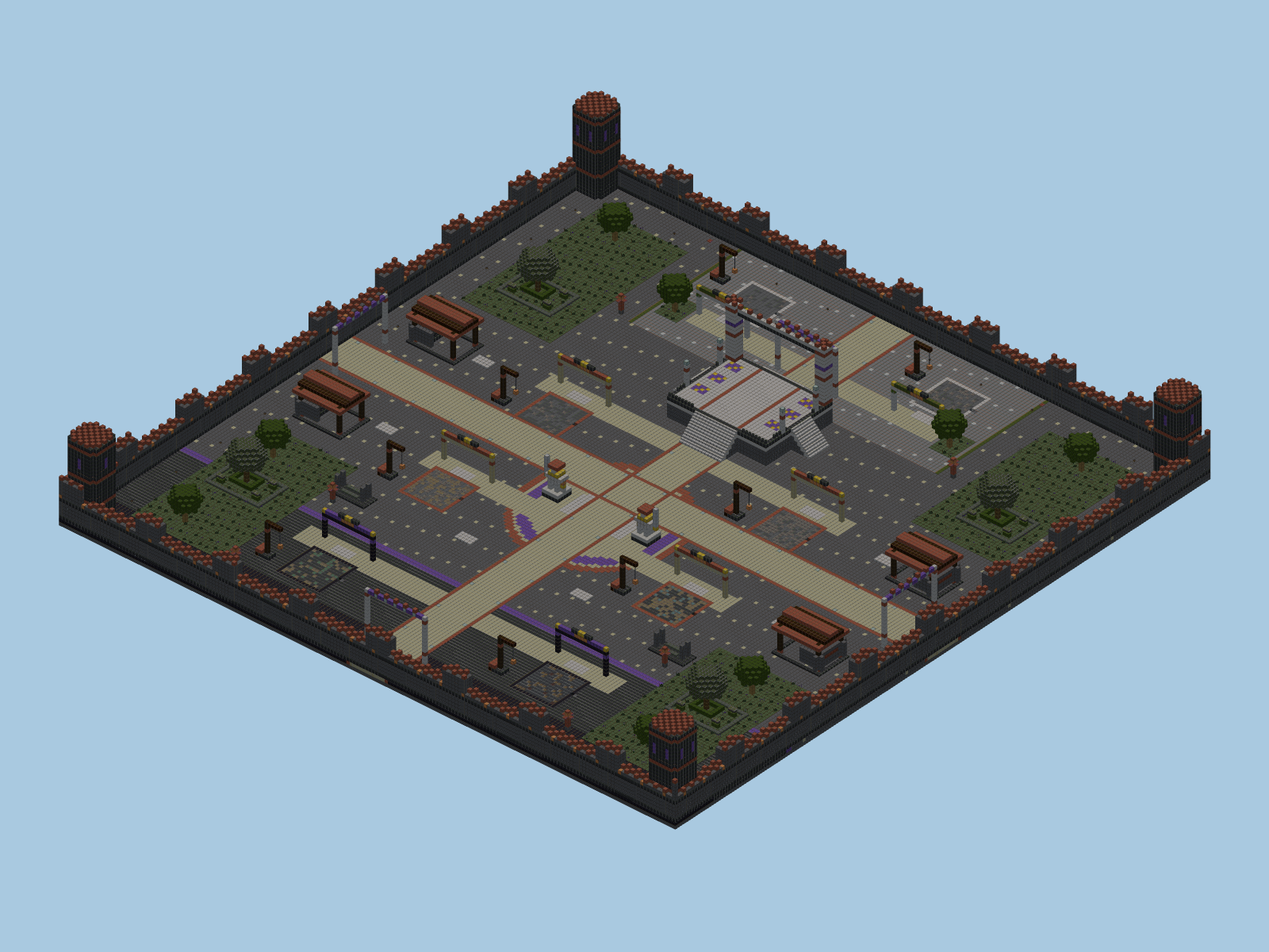
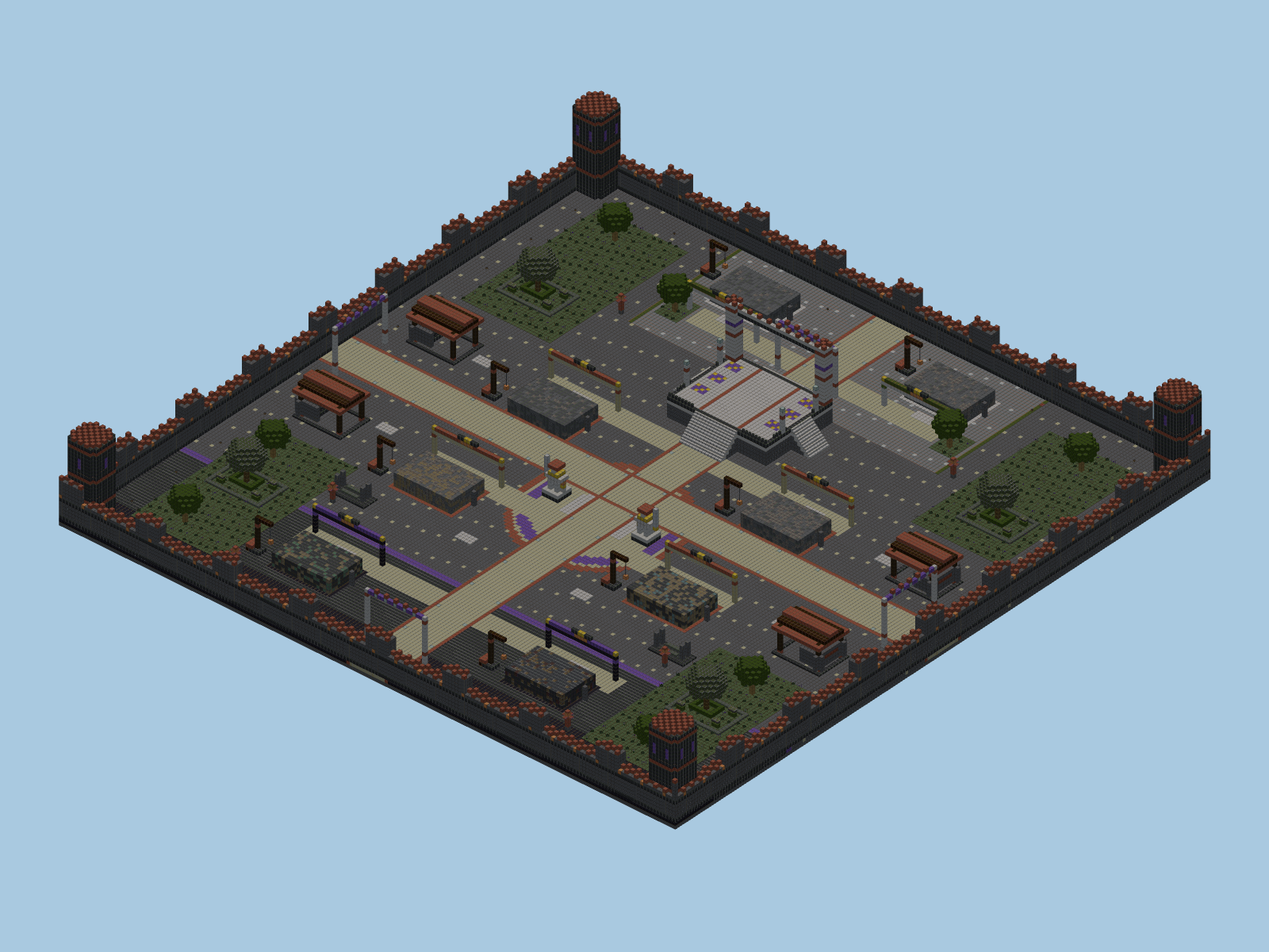
Document surface Box PvP mines and progression guidance

diff --git a/boxpvp-arena.html b/boxpvp-arena.html
@@ -20,7 +20,7 @@
   <main class="page-wrap" id="main-content">
     <nav class="game-guide-toolbar" aria-label="Box PvP rehberi"><a href="boxpvp.html"><i class="fa-solid fa-arrow-left" aria-hidden="true"></i> Box PvP</a><strong>BOX PVP</strong><details><summary><i class="fa-solid fa-table-cells-large" aria-hidden="true"></i> Konular</summary><nav aria-label="Rehber konuları"><a href="boxpvp-start.html"><i class="fa-solid fa-compass" aria-hidden="true"></i> Başlangıç</a><a href="boxpvp-arena.html" aria-current="page"><i class="fa-solid fa-map" aria-hidden="true"></i> Kehribar Kalesi</a><a href="boxpvp-mines.html"><i class="fa-solid fa-hammer" aria-hidden="true"></i> Madenler</a><a href="boxpvp-trade.html"><i class="fa-solid fa-right-left" aria-hidden="true"></i> Cevher takasları</a><a href="boxpvp-services.html"><i class="fa-solid fa-box-open" aria-hidden="true"></i> Kit, onarım ve depo</a><a href="boxpvp-commands.html"><i class="fa-solid fa-terminal" aria-hidden="true"></i> Komutlar</a><a href="boxpvp-rules.html"><i class="fa-solid fa-shield-halved" aria-hidden="true"></i> Savaş kuralları</a></nav></details></nav>
     <header class="game-guide-heading"><h1 id="arena-title">Kehribar Kalesi</h1><p>193 × 193 blokluk yerleşim, korumalı kuzey madenleri ve PvP kanatları.</p></header>
-<div class="game-guide-content"><section id="arena" aria-labelledby="arena-title"><p>Kehribar Kalesi'nin 193 × 193 blokluk yerleşimi ortak kale duvarları, açık ana yollar ve sekiz maden cephesiyle düzenlenmiştir. Kuzeyde korumalı başlangıç bölgesi, ortada savaş meydanı, güneyde zümrüt ve kadim enkaz ocakları bulunur. İç yolları ayıran eski yüksek duvarlar ve galeriler kaldırılmıştır.</p><dl class="arcade-facts"><div><dt>Güvenli avlu</dt><dd>Yükseltilmiş başlangıç terası ve 13 blok genişliğindeki orta yol. Altı NPC iki kenarda üçer kişilik sıradadır: Ana Lobi, Cevher Pazarı ve Başlangıç Kiti bir yanda; Kişisel Depo, Çöp ve Onarım diğer yanda. Hizmetler savaş dışında kullanılır.</dd></div><div><dt>Korumalı kuzey bölgesi</dt><dd>Avludan kuzey merdiveniyle ulaştığın Çırak Meydanı, Başlangıç Kömür Ocağı ve Başlangıç Demir Ocağı PvP'ye kapalıdır. Meydanın ana kemeri avludan geliş yolundadır; iki ocağın kapıları ve başlıkları avluya bakan güney cephesindedir. Yenilenme çıkışında aynı korumalı ön kenara, madene bakacak şekilde alınırız. Savaş etiketi olmayan oyuncunun bu bölgede ölümü envanter kaybettirmez.</dd></div><div><dt>Merkezde dört PvP ocağı</dt><dd>Kömür, demir, altın ve elmas ocakları. Başlangıç ocaklarına göre daha yüksek kömür/demir yoğunluğu ve ileri ekipman için altın/elmas sağlar.</dd></div><div><dt>Güneyde nadir cevherler</dt><dd>Güneyde, savaş meydanının ilerisinde Zümrüt Ocağı ve Kadim Enkaz Ocağı. Bu iki ocakta PvP açıktır; zümrüt ve antik kalıntı pahalı ekipmanların bedelidir.</dd></div></dl><p>Kuzey–güney ve doğu–batı ana yolları 13 blok genişliktedir; avluya gerçek basamaklı merdivenlerle çıkılır. Her madenin renkli giriş çerçevesi, başlığı ve kalıcı dış merdiveni vardır. Maden yanlarındaki vinçler, dört çatılı atölye, merkezdeki iki savaşçı heykeli, kırık sütunlu alçak siperler ve katmanlı bahçeler meydanı tamamlar. Ana yollar ve maden girişleri açık tutulur. Yenilenme sırasında uygun kenara çıkarılırsın; savaş etiketi devam eder. Korumalı alanın içine veya dışına saldırı yapılamaz; savaş etiketi sürerken korumalı alana kaçamazsın.</p><figure class="game-guide-cover arcade-guide-media arcade-map-media"><img src="assets/boxpvp-map-preview.png?v=20261007-decoration-1" alt="193 × 193 blokluk Kehribar Kalesi geometrisi: ortadaki avlu, açık yollar, kuzeyde iki başlangıç ve güneyde iki nadir cevher ocağı" width="1600" height="1200" loading="lazy"><figcaption>Harita geometrisinin önizlemesi; oyun içi ekran görüntüsü değildir. Yapım planından, Minecraft blok modelleri ve dokularıyla oluşturulmuştur; cevher dağılımı örneklenmiştir.</figcaption></figure></section></div>
+<div class="game-guide-content"><section id="arena" aria-labelledby="arena-title"><p>Kehribar Kalesi'nin 193 × 193 blokluk yerleşimi ortak kale duvarları, açık ana yollar ve sekiz maden cephesiyle düzenlenmiştir. Kuzeyde korumalı başlangıç bölgesi, ortada savaş meydanı, güneyde zümrüt ve kadim enkaz ocakları bulunur. İç yolları ayıran eski yüksek duvarlar ve galeriler kaldırılmıştır.</p><dl class="arcade-facts"><div><dt>Güvenli avlu</dt><dd>Yükseltilmiş başlangıç terası ve 13 blok genişliğindeki orta yol. Altı NPC iki kenarda üçer kişilik sıradadır: Ana Lobi, Cevher Pazarı ve Başlangıç Kiti bir yanda; Kişisel Depo, Çöp ve Onarım diğer yanda. Hizmetler savaş dışında kullanılır.</dd></div><div><dt>Korumalı kuzey bölgesi</dt><dd>Avludan kuzey merdiveniyle ulaştığın Çırak Meydanı, Başlangıç Kömür Ocağı ve Başlangıç Demir Ocağı PvP'ye kapalıdır. Meydanın ana kemeri avludan geliş yolundadır; iki ocağın kapıları ve başlıkları avluya bakan güney cephesindedir. Yenilenme çıkışında aynı korumalı ön kenara, madene bakacak şekilde alınırız. Savaş etiketi olmayan oyuncunun bu bölgede ölümü envanter kaybettirmez.</dd></div><div><dt>Merkezde dört PvP ocağı</dt><dd>Kömür, demir, altın ve elmas ocakları. Başlangıç ocaklarına göre daha yüksek kömür/demir yoğunluğu ve ileri ekipman için altın/elmas sağlar.</dd></div><div><dt>Güneyde nadir cevherler</dt><dd>Güneyde, savaş meydanının ilerisinde Zümrüt Ocağı ve Kadim Enkaz Ocağı. Bu iki ocakta PvP açıktır; zümrüt ve antik kalıntı pahalı ekipmanların bedelidir.</dd></div></dl><p>Kuzey–güney ve doğu–batı ana yolları 13 blok genişliktedir; avluya gerçek basamaklı merdivenlerle çıkılır. Sekiz maden de zeminin üstünde 4 blok yüksekliğindedir. Her biri 18 × 12 blok genişliğinde ve 864 blok kapasitelidir; eski çukurlar kapatılmıştır. Her madenin renkli giriş çerçevesi, başlığı ve dayanaklı yan merdiveni vardır. Maden yanlarındaki vinçler, dört çatılı atölye, merkezdeki iki savaşçı heykeli, kırık sütunlu alçak siperler ve katmanlı bahçeler meydanı tamamlar. Ana yollar ve maden girişleri açık tutulur. Yenilenme sırasında uygun kenara çıkarılırsın; savaş etiketi devam eder. Korumalı alanın içine veya dışına saldırı yapılamaz; savaş etiketi sürerken korumalı alana kaçamazsın.</p><figure class="game-guide-cover arcade-guide-media arcade-map-media"><img src="assets/boxpvp-map-preview.png?v=20261007-raised-mines-1" alt="193 × 193 blokluk Kehribar Kalesi geometrisi: ortadaki avlu, açık yollar, kuzeyde iki başlangıç ve güneyde iki nadir cevher ocağı" width="1600" height="1200" loading="lazy"><figcaption>Harita geometrisinin önizlemesi; oyun içi ekran görüntüsü değildir. Yapım planından, Minecraft blok modelleri ve dokularıyla oluşturulmuştur; cevher dağılımı örneklenmiştir.</figcaption></figure></section></div>
     <nav class="game-guide-next" aria-label="Rehber devamı"><a href="boxpvp.html"><i class="fa-solid fa-table-cells-large" aria-hidden="true"></i> Bütün konular</a><a href="boxpvp-mines.html">Madenler <i class="fa-solid fa-arrow-right" aria-hidden="true"></i></a></nav>
   </main>
   <footer class="site-footer"><div class="footer-intro"><a class="site-brand" href="index.html" aria-label="ArcaDe Craft ana sayfa"><img src="assets/logo.png" alt="" width="42" height="42"><span>ArcaDe <strong>Craft</strong></span></a></div><div class="site-footer-inner"><section><h2>Oyna</h2><a href="survival.html">Survival</a><a href="skyblock.html">Skyblock</a><a href="village.html">Rob's Village</a><a href="boxpvp.html">Box PvP</a><a href="pillars.html">Pillars</a><a href="join.html">Oyuna katıl</a></section><section><h2>Topluluk</h2><a href="community.html">Topluluk</a><a href="news.html">Haberler</a><a href="staff.html">Ekibimiz</a><a href="https://discord.gg/GerdDHzMWp" target="_blank" rel="noopener"><i class="fa-brands fa-discord" aria-hidden="true"></i> Discord</a></section><section><h2>Yardım</h2><a href="help.html">Destek merkezi</a><a href="rules.html">Kurallar</a><a href="status.html">Sunucu durumu</a></section></div><div class="footer-bottom"><span>© 2026 ArcaDe Craft</span><div><a href="sitemap.html">Site haritası</a><a href="privacy.html">Gizlilik</a><a href="terms.html">Kullanım şartları</a></div><span>Mojang veya Microsoft ile bağlantılı değildir.</span></div></footer>

diff --git a/boxpvp-mines.html b/boxpvp-mines.html
@@ -20,7 +20,7 @@
   <main class="page-wrap" id="main-content">
     <nav class="game-guide-toolbar" aria-label="Box PvP rehberi"><a href="boxpvp.html"><i class="fa-solid fa-arrow-left" aria-hidden="true"></i> Box PvP</a><strong>BOX PVP</strong><details><summary><i class="fa-solid fa-table-cells-large" aria-hidden="true"></i> Konular</summary><nav aria-label="Rehber konuları"><a href="boxpvp-start.html"><i class="fa-solid fa-compass" aria-hidden="true"></i> Başlangıç</a><a href="boxpvp-arena.html"><i class="fa-solid fa-map" aria-hidden="true"></i> Kehribar Kalesi</a><a href="boxpvp-mines.html" aria-current="page"><i class="fa-solid fa-hammer" aria-hidden="true"></i> Madenler</a><a href="boxpvp-trade.html"><i class="fa-solid fa-right-left" aria-hidden="true"></i> Cevher takasları</a><a href="boxpvp-services.html"><i class="fa-solid fa-box-open" aria-hidden="true"></i> Kit, onarım ve depo</a><a href="boxpvp-commands.html"><i class="fa-solid fa-terminal" aria-hidden="true"></i> Komutlar</a><a href="boxpvp-rules.html"><i class="fa-solid fa-shield-halved" aria-hidden="true"></i> Savaş kuralları</a></nav></details></nav>
     <header class="game-guide-heading"><h1 id="mine-title">Madenler</h1><p>İki korumalı başlangıç ocağı, altı PvP ocağı ve yenilenme koşulları.</p></header>
-<div class="game-guide-content"><section id="maden" aria-labelledby="mine-title"><p>Kuzeydeki Çırak Meydanı'nda korumalı kömür ve demir ocakları vardır. Orta bölümde kömür, demir, altın ve elmas PvP ocakları; güneyde Zümrüt Ocağı ile Kadim Enkaz Ocağı bulunur. Her ocak 12 × 12 × 6 bloktur.</p><table class="arcade-data-table"><caption>Sekiz ocağın bölgesi, yenilenme süresi ve blok bileşimi</caption><thead><tr><th scope="col">Maden ve bölge</th><th scope="col">Süre ve bileşim</th></tr></thead><tbody>
+<div class="game-guide-content"><section id="maden" aria-labelledby="mine-title"><p>Kuzeydeki Çırak Meydanı'nda korumalı kömür ve demir ocakları vardır. Orta bölümde kömür, demir, altın ve elmas PvP ocakları; güneyde Zümrüt Ocağı ile Kadim Enkaz Ocağı bulunur. Sekiz ocak da zeminin üstünde, 18 × 12 × 4 blokluk cevher kütleleridir. Her birinin kapasitesi 864 bloktur; toplam cevher hacmi korunmuştur. Yan merdivenle üzerine çıkabilir veya açık yüzlerden kazabilirsin.</p><p><code>/box madenler</code> menüsünden bir ocak seç: pusula ve ekrandaki yön oku girişini gösterir. Yürüyerek gidersin; savaş kısıtları geçerlidir. <code>/box bul iptal</code> yönlendirmeyi kapatır.</p><table class="arcade-data-table"><caption>Sekiz ocağın bölgesi, yenilenme süresi ve blok bileşimi</caption><thead><tr><th scope="col">Maden ve bölge</th><th scope="col">Süre ve bileşim</th></tr></thead><tbody>
 <tr data-mine="box_baslangic_komur"><th scope="row">Başlangıç Kömür Ocağı<br><small>Korumalı · Çırak Kömür</small></th><td>180 saniye<br>%70 taş, %25 kömür cevheri, %5 demir cevheri</td></tr>
 <tr data-mine="box_baslangic_demir"><th scope="row">Başlangıç Demir Ocağı<br><small>Korumalı · Çırak Demir</small></th><td>210 saniye<br>%55 taş, %15 kömür cevheri, %30 demir cevheri</td></tr>
 <tr data-mine="box_komur"><th scope="row">Kömür Ocağı<br><small>PvP</small></th><td>180 saniye<br>%30 taş, %55 kömür cevheri, %15 demir cevheri</td></tr>
@@ -29,7 +29,7 @@
 <tr data-mine="box_elmas"><th scope="row">Elmas Ocağı<br><small>PvP</small></th><td>270 saniye<br>%45 derin kayrak, %40 altın cevheri, %15 elmas cevheri</td></tr>
 <tr data-mine="box_zumrut"><th scope="row">Zümrüt Ocağı<br><small>PvP</small></th><td>300 saniye<br>%60 derin kayrak, %20 altın cevheri, %20 zümrüt cevheri</td></tr>
 <tr data-mine="box_kadim"><th scope="row">Kadim Enkaz Ocağı<br><small>PvP</small></th><td>360 saniye<br>%75 bazalt, %20 derin kayrak altın cevheri, %5 antik kalıntı</td></tr>
-</tbody></table><p>Oranlar madenin blok bileşimini anlatır; her yenilenmede aynı sayıda cevher veya belirli bir saatlik kazanç garanti edilmez. Taş, derin kayrak ve bazalt kazılabilir ama eşya düşürmez. Cevherler normal kaynaklarını verir: ham demir, ham altın, kömür, elmas, zümrüt ve antik kalıntı. Sekiz ocağın tamamında bu kaynaklar doğrudan envanterine gider; yalnız sığmayan miktar yere düşer.</p><p>Sekiz ocağın üzerindeki aynı mor–altın başlık düzeni, bölge türünü ve yenilenmeye kalan süreyi gösterir. Bu sayaçlar her ocağın gerçek zamanlayıcısından güncellenir.</p><p>Kalan blok oranı %30'un altına indiğinde ocak süreyi beklemeden yenilenir. Yenilenmeden önce çukurdaki oyuncular sağlam kenara çıkarılır. Başlangıç ocaklarının kenarları korumalıdır; PvP ocaklarında savaş etiketi silinmez. Sunucu boşken zamanlayıcıyla dolum yapılmaz.</p><p>Cevher için uygun kazma gerekir. Yalnızca ocağın kendi bloklarını kazabilirsin; blok yerleştirilmez. <a href="boxpvp-trade.html#aletler">Kazma seçenekleri ve bedelleri</a>.</p></section></div>
+</tbody></table><p>Oranlar madenin blok bileşimini anlatır; her yenilenmede aynı sayıda cevher veya belirli bir saatlik kazanç garanti edilmez. Taş, derin kayrak ve bazalt kazılabilir ama eşya düşürmez. Cevherler normal kaynaklarını verir: ham demir, ham altın, kömür, elmas, zümrüt ve antik kalıntı. Sekiz ocağın tamamında bu kaynaklar doğrudan envanterine gider; yalnız sığmayan miktar yere düşer.</p><p>Sekiz ocağın üzerindeki aynı mor–altın başlık düzeni, bölge türünü ve yenilenmeye kalan süreyi gösterir. Bu sayaçlar her ocağın gerçek zamanlayıcısından güncellenir.</p><p>Kalan blok oranı %30'un altına indiğinde ocak süreyi beklemeden yenilenir. Yenilenmeden önce cevher kütlesinin içinde, üzerinde veya üstünde zıplayan oyuncular dış kenara çıkarılır. Başlangıç ocaklarının kenarları korumalıdır; PvP ocaklarında savaş etiketi silinmez. Sunucu boşken zamanlayıcıyla dolum yapılmaz.</p><p>Cevher için uygun kazma gerekir. Yalnızca ocağın kendi bloklarını kazabilirsin; blok yerleştirilmez. <a href="boxpvp-trade.html#aletler">Kazma seçenekleri ve bedelleri</a>.</p></section></div>
     <nav class="game-guide-next" aria-label="Rehber devamı"><a href="boxpvp.html"><i class="fa-solid fa-table-cells-large" aria-hidden="true"></i> Bütün konular</a><a href="boxpvp-trade.html">Cevher takasları <i class="fa-solid fa-arrow-right" aria-hidden="true"></i></a></nav>
   </main>
   <footer class="site-footer"><div class="footer-intro"><a class="site-brand" href="index.html" aria-label="ArcaDe Craft ana sayfa"><img src="assets/logo.png" alt="" width="42" height="42"><span>ArcaDe <strong>Craft</strong></span></a></div><div class="site-footer-inner"><section><h2>Oyna</h2><a href="survival.html">Survival</a><a href="skyblock.html">Skyblock</a><a href="village.html">Rob's Village</a><a href="boxpvp.html">Box PvP</a><a href="pillars.html">Pillars</a><a href="join.html">Oyuna katıl</a></section><section><h2>Topluluk</h2><a href="community.html">Topluluk</a><a href="news.html">Haberler</a><a href="staff.html">Ekibimiz</a><a href="https://discord.gg/GerdDHzMWp" target="_blank" rel="noopener"><i class="fa-brands fa-discord" aria-hidden="true"></i> Discord</a></section><section><h2>Yardım</h2><a href="help.html">Destek merkezi</a><a href="rules.html">Kurallar</a><a href="status.html">Sunucu durumu</a></section></div><div class="footer-bottom"><span>© 2026 ArcaDe Craft</span><div><a href="sitemap.html">Site haritası</a><a href="privacy.html">Gizlilik</a><a href="terms.html">Kullanım şartları</a></div><span>Mojang veya Microsoft ile bağlantılı değildir.</span></div></footer>

diff --git a/boxpvp-start.html b/boxpvp-start.html
@@ -20,7 +20,7 @@
   <main class="page-wrap" id="main-content">
     <nav class="game-guide-toolbar" aria-label="Box PvP rehberi"><a href="boxpvp.html"><i class="fa-solid fa-arrow-left" aria-hidden="true"></i> Box PvP</a><strong>BOX PVP</strong><details><summary><i class="fa-solid fa-table-cells-large" aria-hidden="true"></i> Konular</summary><nav aria-label="Rehber konuları"><a href="boxpvp-start.html" aria-current="page"><i class="fa-solid fa-compass" aria-hidden="true"></i> Başlangıç</a><a href="boxpvp-arena.html"><i class="fa-solid fa-map" aria-hidden="true"></i> Kehribar Kalesi</a><a href="boxpvp-mines.html"><i class="fa-solid fa-hammer" aria-hidden="true"></i> Madenler</a><a href="boxpvp-trade.html"><i class="fa-solid fa-right-left" aria-hidden="true"></i> Cevher takasları</a><a href="boxpvp-services.html"><i class="fa-solid fa-box-open" aria-hidden="true"></i> Kit, onarım ve depo</a><a href="boxpvp-commands.html"><i class="fa-solid fa-terminal" aria-hidden="true"></i> Komutlar</a><a href="boxpvp-rules.html"><i class="fa-solid fa-shield-halved" aria-hidden="true"></i> Savaş kuralları</a></nav></details></nav>
     <header class="game-guide-heading"><h1 id="start-title">Başlangıç</h1><p>Güvenli başlangıç madenlerinde hazırlan, sonra daha değerli PvP ocaklarına geç.</p></header>
-<div class="game-guide-content"><section id="baslangic" aria-labelledby="start-title"><ol class="arcade-steps"><li><strong>Hub'a ulaş.</strong> Hesabına giriş yap, ardından <code>/boxpvp</code> yaz veya Box PvP NPC'sini seç. <a href="join.html">Java ve Bedrock bağlantı bilgileri</a>.</li><li><strong>Güvenli avluda hazırlan.</strong> İlk boş envanterle girişte taş kazma, taş kılıç, 16 ekmek ve deri zırh alırsın. Avlunun iki yanındaki altı NPC'den hizmetlerini seçebilirsin. Cevher Pazarı takasları açar; Kişisel Depo, Çöp ve Onarım diğer ihtiyaçların içindir. Orta yol madenlere geçiş için açıktır.</li><li><strong>Çırak Meydanı'na git.</strong> Başlangıç Kömür Ocağı ile Başlangıç Demir Ocağı ve avludan çıkan kuzey yolu korumalıdır. Burada PvP yapılmaz; savaş etiketin yokken bu bölgede ölürsen envanterin korunur.</li><li><strong>İlk ekipmanını seç.</strong> Kömür ve ham demirle Çırak zincir veya Demir setini al. <a href="boxpvp-trade.html#zirh">Yedi zırh takası basamağını</a> ve parça bedellerini karşılaştır.</li><li><strong>Riskini kendin belirle.</strong> Hazırlanınca orta bölümdeki dört PvP ocağına, sonra güneydeki zümrüt ve kadim enkaz ocaklarına geç. PvP ocakları daha değerli kaynaklar sunar; burada ölümde taşıdığın eşyalar düşer.</li></ol><p>Kırdığın cevher doğrudan envanterine gider. Yalnız sığmayan miktar yere düşer; madene gitmeden önce yer aç.</p><p>Maden ve hizmet başlıkları Java ile Bedrock kaynak paketlerinde aynı mor–altın görünüme sahiptir. Paketsiz girişte de adları okunabilir.</p><p>Yedek ekipmanını ve fazla cevherini avludaki depoya bırak. Başlangıç madenleri güvenlidir; takas ve depo kullanmak için yine avluya dönmen gerekir.</p></section></div>
+<div class="game-guide-content"><section id="baslangic" aria-labelledby="start-title"><ol class="arcade-steps"><li><strong>Hub'a ulaş.</strong> Hesabına giriş yap, ardından <code>/boxpvp</code> yaz veya Box PvP NPC'sini seç. <a href="join.html">Java ve Bedrock bağlantı bilgileri</a>.</li><li><strong>Güvenli avluda hazırlan.</strong> İlk boş envanterle girişte taş kazma, taş kılıç, 16 ekmek ve deri zırh alırsın. Avlunun iki yanındaki altı NPC'den hizmetlerini seçebilirsin. Cevher Pazarı takasları açar; Kişisel Depo, Çöp ve Onarım diğer ihtiyaçların içindir. Orta yol madenlere geçiş için açıktır.</li><li><strong>Çırak Meydanı'na git.</strong> <code>/box madenler</code> menüsünden başlangıç ocağını seç; pusula ve yön oku girişini göstersin. Başlangıç Kömür Ocağı ile Başlangıç Demir Ocağı ve avludan çıkan kuzey yolu korumalıdır. Burada PvP yapılmaz; savaş etiketin yokken bu bölgede ölürsen envanterin korunur.</li><li><strong>İlk ekipmanını seç.</strong> <code>/box ilerleme</code> ekranında gerçek tam set maliyetlerini karşılaştır. Kömür ve ham demirle Çırak zincir veya Demir setini al. <a href="boxpvp-trade.html#zirh">Yedi zırh takası basamağını</a> ve parça bedellerini karşılaştır.</li><li><strong>Riskini kendin belirle.</strong> Hazırlanınca orta bölümdeki dört PvP ocağına, sonra güneydeki zümrüt ve kadim enkaz ocaklarına geç. PvP ocakları daha değerli kaynaklar sunar; burada ölümde taşıdığın eşyalar düşer.</li></ol><p>Kırdığın cevher doğrudan envanterine gider. Yalnız sığmayan miktar yere düşer; ilgili kaynağa yer kalmadığında oyun uyarı gösterir. Madene gitmeden önce yer aç.</p><p>Maden ve hizmet başlıkları Java ile Bedrock kaynak paketlerinde aynı mor–altın görünüme sahiptir. Paketsiz girişte de adları okunabilir.</p><p>Yedek ekipmanını ve fazla cevherini avludaki depoya bırak. Başlangıç madenleri güvenlidir; takas ve depo kullanmak için yine avluya dönmen gerekir.</p></section></div>
     <nav class="game-guide-next" aria-label="Rehber devamı"><a href="boxpvp.html"><i class="fa-solid fa-table-cells-large" aria-hidden="true"></i> Bütün konular</a><a href="boxpvp-arena.html">Kehribar Kalesi <i class="fa-solid fa-arrow-right" aria-hidden="true"></i></a></nav>
   </main>
   <footer class="site-footer"><div class="footer-intro"><a class="site-brand" href="index.html" aria-label="ArcaDe Craft ana sayfa"><img src="assets/logo.png" alt="" width="42" height="42"><span>ArcaDe <strong>Craft</strong></span></a></div><div class="site-footer-inner"><section><h2>Oyna</h2><a href="survival.html">Survival</a><a href="skyblock.html">Skyblock</a><a href="village.html">Rob's Village</a><a href="boxpvp.html">Box PvP</a><a href="pillars.html">Pillars</a><a href="join.html">Oyuna katıl</a></section><section><h2>Topluluk</h2><a href="community.html">Topluluk</a><a href="news.html">Haberler</a><a href="staff.html">Ekibimiz</a><a href="https://discord.gg/GerdDHzMWp" target="_blank" rel="noopener"><i class="fa-brands fa-discord" aria-hidden="true"></i> Discord</a></section><section><h2>Yardım</h2><a href="help.html">Destek merkezi</a><a href="rules.html">Kurallar</a><a href="status.html">Sunucu durumu</a></section></div><div class="footer-bottom"><span>© 2026 ArcaDe Craft</span><div><a href="sitemap.html">Site haritası</a><a href="privacy.html">Gizlilik</a><a href="terms.html">Kullanım şartları</a></div><span>Mojang veya Microsoft ile bağlantılı değildir.</span></div></footer>

diff --git a/boxpvp-commands.html b/boxpvp-commands.html
@@ -23,6 +23,9 @@
 <div class="game-guide-content"><section id="komutlar" aria-labelledby="commands-title"><p>Java ve Bedrock oyuncuları aynı oyun kurallarını ve hizmetleri kullanır. Takas, kit, onarım, depo ve çöp yalnız avluda açılır.</p><table class="arcade-command-table"><caption>Box PvP komutları</caption><thead><tr><th scope="col">Komut</th><th scope="col">Kullanım</th></tr></thead><tbody><tr><td class="command"><code>/boxpvp</code></td><td>Hub'dan Box PvP'ye geç; Box PvP içindeyken oyun menüsünü aç.</td></tr>
 <tr><td class="command"><code>/menu</code></td><td>Box PvP içindeyken oyun menüsünü aç.</td></tr>
 <tr><td class="command"><code>/box madenler</code></td><td>Sekiz ocağın bölgesini ve yenilenme süresini incele; gerçek yenilenme sayaçları ocak başlıklarında da görünür.</td></tr>
+<tr><td class="command"><code>/box ilerleme</code></td><td>Yedi zırh seviyesinin gerçek tam set maliyetlerini karşılaştır. Parçaları ayrı alabilirsin; seviye kilidi yoktur.</td></tr>
+<tr><td class="command"><code>/box bul box_baslangic_komur</code></td><td>Başlangıç Kömür Ocağı girişine pusula ve yön oku ile yol tarifi al. Diğer ocakları maden menüsünden seçebilirsin.</td></tr>
+<tr><td class="command"><code>/box bul iptal</code></td><td>Yol tarifini kapat ve pusulanın önceki hedefini geri yükle.</td></tr>
 <tr><td class="command"><code>/box rehber</code></td><td>Bölge, savaş ve ekipman gelişimi kurallarını aç.</td></tr>
 <tr><td class="command"><code>/box kit</code></td><td>Avluda, boş envanter ve boş zırhla kit al. Bekleme süresi 10 dakika.</td></tr>
 <tr><td class="command"><code>/box takas</code></td><td>Avluda dört takas kategorisini aç.</td></tr>
